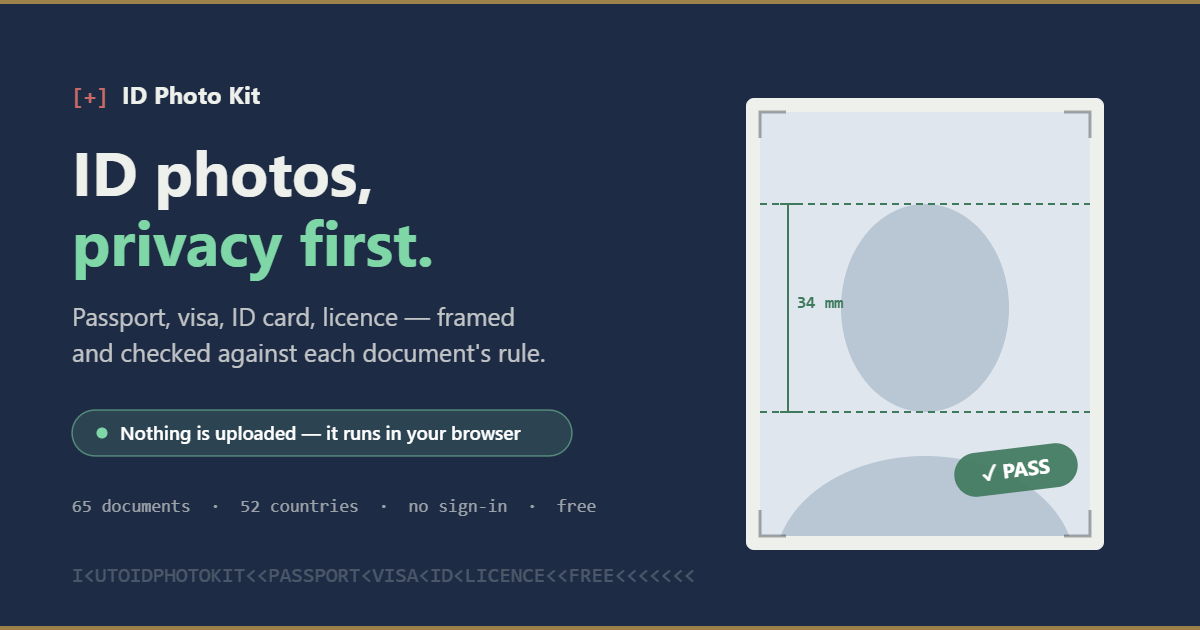
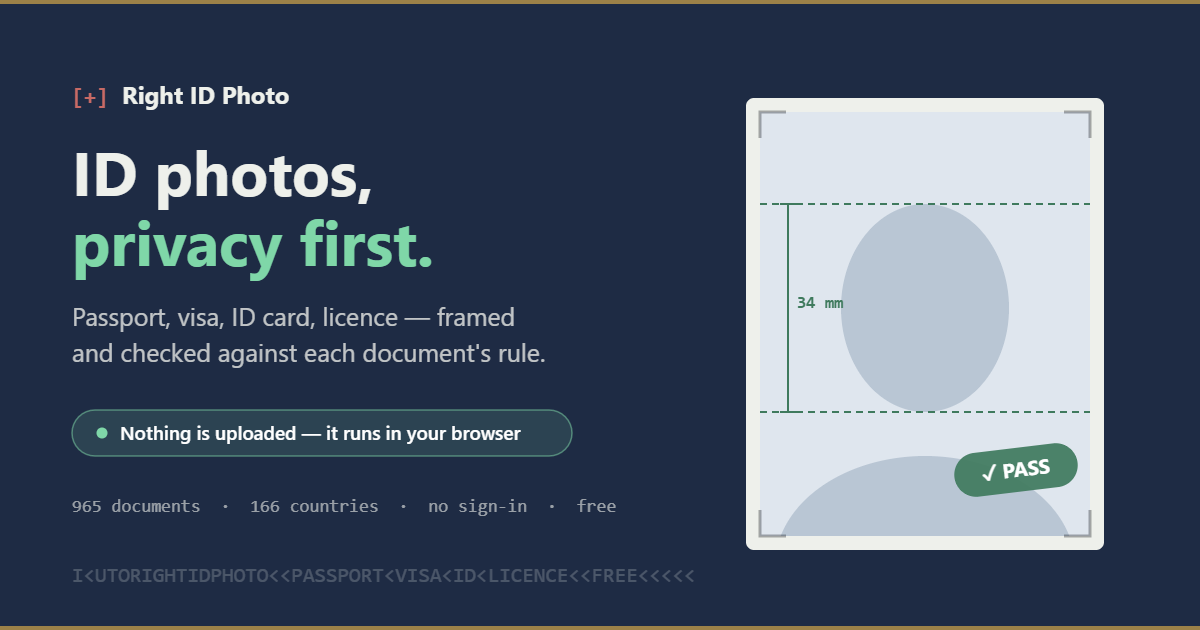
Rename to Right ID Photo and serve it at rightidphoto.com
The brand, page titles, share card and README now say Right ID Photo,
and the canonical URLs, sitemap and robots.txt point at
https://rightidphoto.com. wrangler.jsonc attaches the apex and www as
custom domains; workers.dev stays on so earlier links keep working.

The share card is re-rendered with the new name and the current counts
(965 documents, 166 countries, up from 65 and 52).

diff --git a/scripts/og-card.html b/scripts/og-card.html
@@ -87,7 +87,7 @@
         ctx.fillText("[+]", 72, 104);
         ctx.font = "700 24px 'IBM Plex Sans', system-ui, sans-serif";
         ctx.fillStyle = PAPER;
-        ctx.fillText("ID Photo Kit", 122, 104);
+        ctx.fillText("Right ID Photo", 122, 104);
 
         ctx.fillStyle = PAPER;
         ctx.font = "700 62px 'IBM Plex Sans', system-ui, sans-serif";
@@ -122,7 +122,7 @@
 
         ctx.fillStyle = "rgba(238,240,235,0.6)";
         ctx.font = "500 18px 'IBM Plex Mono', ui-monospace, monospace";
-        ctx.fillText("65 documents  ·  52 countries  ·  no sign-in  ·  free", 72, 512);
+        ctx.fillText("965 documents  ·  166 countries  ·  no sign-in  ·  free", 72, 512);
 
         // ---- right column: a photo in its frame, with the head-height rule drawn on it
         const px = 760, py = 112, pw = 330, ph = 424;
@@ -205,7 +205,7 @@
         // ---- the machine-readable strip, as in the app's footer
         ctx.fillStyle = "rgba(238,240,235,0.22)";
         ctx.font = "500 21px 'IBM Plex Mono', ui-monospace, monospace";
-        ctx.fillText("I<UTOIDPHOTOKIT<<PASSPORT<VISA<ID<LICENCE<<FREE<<<<<<<", 72, 582);
+        ctx.fillText("I<UTORIGHTIDPHOTO<<PASSPORT<VISA<ID<LICENCE<<FREE<<<<<", 72, 582);
 
         return ctx.canvas;
       }

diff --git a/index.html b/index.html
@@ -12,12 +12,12 @@
     <!-- meta:start — scripts/prerender.mjs replaces this whole block on every built page,
          homepage included (from src/brand.ts). What is here only shows in `npm run dev`.
          Keep the markers; the build fails loudly without them. -->
-    <title>ID Photo Kit — passport, visa and ID photos, free and private</title>
+    <title>Right ID Photo — passport, visa and ID photos, free and private</title>
     <meta name="description" content="Free photos for passports, visas, ID cards, driving licences and more — framed to each document's head-height rule, background replaced, every measurement checked, ready to print or upload. Runs in your browser: no sign-in, no upload." />
-    <link rel="canonical" href="https://idphotokit.passport-photo.workers.dev/" />
+    <link rel="canonical" href="https://rightidphoto.com/" />
     <meta property="og:type" content="website" />
-    <meta property="og:site_name" content="ID Photo Kit" />
-    <meta property="og:image" content="https://idphotokit.passport-photo.workers.dev/og.png" />
+    <meta property="og:site_name" content="Right ID Photo" />
+    <meta property="og:image" content="https://rightidphoto.com/og.png" />
     <!-- meta:end -->
   </head>
   <body>

diff --git a/src/brand.ts b/src/brand.ts
@@ -9,7 +9,7 @@
  * Deliberately not "passport": the tool covers visas, ID and residence cards, licences and
  * tax cards too. And nothing that suggests a government connection ("official", "gov").
  */
-export const BRAND = "ID Photo Kit";
+export const BRAND = "Right ID Photo";
 
 /**
  * The headline, in two beats: what it is, then the promise that sets it apart. Leads with

diff --git a/README.md b/README.md
@@ -1,4 +1,4 @@
-# ID Photo Kit
+# Right ID Photo
 
 ID photos, made to spec — for passports, visas, ID and residence cards, driving licences,
 tax cards and the DV lottery. Free, private, and entirely in the browser.
@@ -19,13 +19,13 @@ What it does:
   - Single photo (PNG / JPEG)
   - Print sheet (A4 / A3 / 4x6 / Custom) with auto-pack + cut lines
 
-**Try it: https://idphotokit.passport-photo.workers.dev/**
+**Try it: https://rightidphoto.com/**
 
 Every document has its own page: a country's primary document at `/photo/<country>` and the
 rest at `/photo/<country>/<document>`, e.g.
-[/photo/india](https://idphotokit.passport-photo.workers.dev/photo/india),
-[/photo/india/pan-card-online](https://idphotokit.passport-photo.workers.dev/photo/india/pan-card-online) or
-[/photo/united-states/dv-lottery](https://idphotokit.passport-photo.workers.dev/photo/united-states/dv-lottery).
+[/photo/india](https://rightidphoto.com/photo/india),
+[/photo/india/pan-card-online](https://rightidphoto.com/photo/india/pan-card-online) or
+[/photo/united-states/dv-lottery](https://rightidphoto.com/photo/united-states/dv-lottery).
 Each opens the tool preset to that document and sets out its published requirements with a
 diagram. The old `/passport-photo/<country>` paths redirect here.
 
